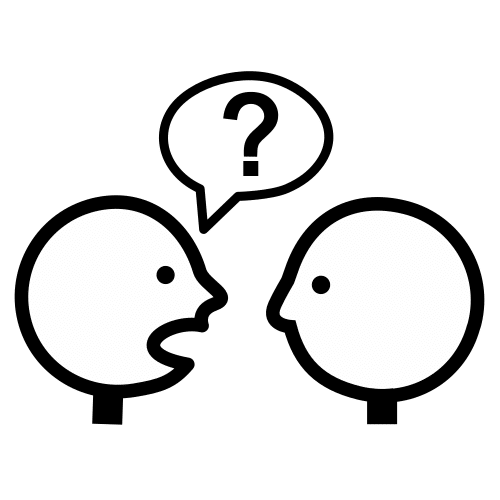
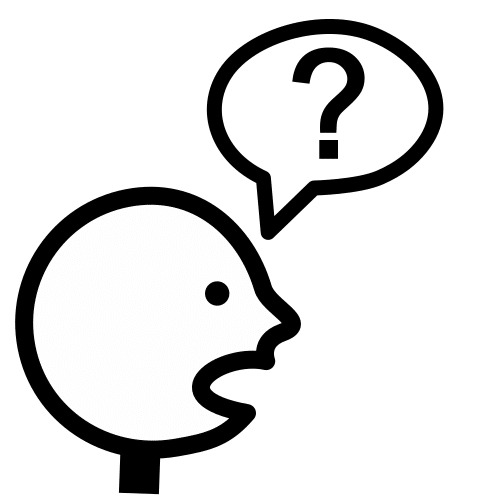
Mandarin: more words

Changed region(s): [[0.03, 0.03, 0.99, 0.99], [0.63, 0.54, 0.66, 0.6]]

diff --git a/m/mandarin/data.js b/m/mandarin/data.js
@@ -196,6 +196,7 @@ const data = {
 			{ word: "上班", pinyin: "Shàngbān", imageURL: "img/gotowork.png", english: "Go to work" },
 			{ word: "下班", pinyin: "Xiàbān", imageURL: "img/finishwork.png", english: "Finish work" },
       { word: "上下班", pinyin: "Shàng-xiàbān", image: "🏢🚙🚗🏠", english: "Rush hour (to and from work)", immersiveChineseLevel: "49", immersiveChineseVocabId: 725 },
+      { word: "工资", pinyin: "Gōngzī", imageURL: "img/salary.png", english: "Salary", immersiveChineseLevel: "78", immersiveChineseVocabId: 382 },
       { word: "上课", pinyin: "Shàngkè", imageURL: "img/class.png", english: "Attend class" },
       { word: "上学", pinyin: "Shàngxué", image: "NONE", english: "Go to school", immersiveChineseLevel: "28", immersiveChineseVocabId: 142 },
       { word: "下课", pinyin: "Xiàkè", image: "NONE", english: "Finish class", immersiveChineseLevel: "28", immersiveChineseVocabId: 567 },
@@ -482,6 +483,7 @@ const data = {
       { word: "难吃", pinyin: "Nánchī", image: "NONE", english: "Bad tasting", immersiveChineseLevel: "20", immersiveChineseVocabId: 558 },
       { word: "好听", pinyin: "Hǎotīng", image: "NONE", english: "Good to listen to, sounds nice", immersiveChineseLevel: "28", immersiveChineseVocabId: 139 },
       { word: "来自", pinyin: "Láizì", image: "NONE", english: "Come from", immersiveChineseLevel: "61", immersiveChineseVocabId: 289 },
+      { word: "外国", pinyin: "Wàiguó", image: "NONE", english: "Foreign", immersiveChineseLevel: "73", immersiveChineseVocabId: 346 },
     ]
   },
   locationDirection: {
@@ -503,6 +505,7 @@ const data = {
       { word: "离很远", pinyin: "Lí hěn yuǎn", imageURL: "img/far.png", english: "Far from" },
       { word: "近", pinyin: "Jìn", imageURL: "img/near.png", english: "Near" },
       { word: "外面", pinyin: "Wàimiàn", imageURL: "img/outside.png", english: "Outside" },
+      { word: "里面", pinyin: "Lǐmiàn", imageURL: "img/inside.png", english: "Inside", immersiveChineseLevel: "72", immersiveChineseVocabId: 344 },
       { word: "左拐", pinyin: "Zuó guǎi", imageURL: "img/turnleft.png", english: "Turn left" },
       { word: "往前", pinyin: "Wǎng qián", image: "NONE", english: "Move forward" },
     ],
@@ -517,6 +520,10 @@ const data = {
       { word: "学生", pinyin: "Xuéshēng", image: "👩🎓", english: "Student" },
       { word: "女人", pinyin: "Nǚrén", image: "👩", english: "Woman" },
       { word: "女士", pinyin: "Nǚshì", image: "💁♀", english: "Lady" },
+      { word: "男的", pinyin: "Nán de", image: "NONE", english: "Male; a man", immersiveChineseLevel: "77", immersiveChineseVocabId: 373 },
+      { word: "女的", pinyin: "Nǚ de", image: "NONE", english: "Female; a woman", immersiveChineseLevel: "77", immersiveChineseVocabId: 374 },
+      { word: "男", pinyin: "Nán", image: "♂", english: "Male", immersiveChineseLevel: "77", immersiveChineseVocabId: 478 },
+      { word: "女", pinyin: "Nǚ", image: "♀", english: "Female", immersiveChineseLevel: "77", immersiveChineseVocabId: 549 },
       { word: "人", pinyin: "Rén", image: "👤", english: "Person" },
       { word: "邻居", pinyin: "Línjū", imageURL: "img/neighbor.png", english: "Neighbor" },
       { word: "宝宝", pinyin: "Bǎobao", image: "🚼", english: "Baby" },
@@ -535,6 +542,8 @@ const data = {
       { word: "奶奶", pinyin: "Nǎinai", image: "NONE", english: "Grandmother (father’s side)" },
       { word: "保姆", pinyin: "Bǎomǔ", image: "🧑🍼", english: "Nanny" },
       { word: "顾客", pinyin: "Gùkè", imageURL: "img/customer.png", english: "Customer", immersiveChineseLevel: "67", immersiveChineseVocabId: 322 },
+      { word: "外国人", pinyin: "Wàiguórén", image: "NONE", english: "Foreigner", immersiveChineseLevel: "73", immersiveChineseVocabId: 345 },
+      { word: "老外", pinyin: "Lǎowài", image: "NONE", english: "Foreigner (colloquial)", immersiveChineseLevel: "73", immersiveChineseVocabId: 347 },
       { word: "医生", pinyin: "Yīshēng", image: "👨⚕", english: "Doctor" },
       { word: "小学生", pinyin: "Xiǎoxuéshēng", image: "NONE", english: "Primary school student", immersiveChineseLevel: "26", immersiveChineseVocabId: 129 },
       { word: "高一", pinyin: "Gāoyī", imageURL: "img/freshman.png", english: "Freshman" },
@@ -544,6 +553,12 @@ const data = {
       { word: "公主", pinyin: "Gōngzhǔ", imageURL: "img/princess.png", english: "Princess" },
       { word: "同事", pinyin: "Tóngshì", image: "👩💼👨💼", english: "Colleague / Coworker" },
       { word: "同学", pinyin: "Tóngxué", image: "👩🎓👨🎓", english: "Classmate" },
+      { word: "男朋友", pinyin: "Nánpéngyou", imageURL: "img/boyfriend.png", english: "Boyfriend", immersiveChineseLevel: "77", immersiveChineseVocabId: 375 },
+      { word: "女朋友", pinyin: "Nǚpéngyou", imageURL: "img/girlfriend.png", english: "Girlfriend", immersiveChineseLevel: "77", immersiveChineseVocabId: 376 },
+      { word: "男人", pinyin: "Nánrén", imageURL: "img/man.png", english: "Man", immersiveChineseLevel: "77", immersiveChineseVocabId: 377 },
+      { word: "男生", pinyin: "Nánshēng", imageURL: "img/malestudent.png", english: "Male student, boy, guy", immersiveChineseLevel: "77", immersiveChineseVocabId: 479 },
+      { word: "女生", pinyin: "Nǚshēng", imageURL: "img/femalestudent.png", english: "Female student, girl", immersiveChineseLevel: "77", immersiveChineseVocabId: 480 },
+      { word: "年轻人", pinyin: "Niánqīngrén", image: "[👱]🧓", english: "Young person", immersiveChineseLevel: "78", immersiveChineseVocabId: 381 },
       { word: "名字", pinyin: "Míngzi", imageURL: "img/name.png", english: "Name" },
       { word: "鬼", pinyin: "Guǐ", image: "👻", english: "Ghost" },
     ]
@@ -594,6 +609,8 @@ const data = {
       { word: "电梯", pinyin: "Diàntī", image: "🛗", english: "Elevator" },
       { word: "扶梯", pinyin: "Fútī", imageURL: "img/escalator.png", english: "Escalator" },
       { word: "酒店", pinyin: "Jiǔdiàn", image: "🏨", english: "Hotel" },
+      { word: "楼上", pinyin: "Lóu shàng", imageURL: "img/goupstairs.png", english: "Upstairs", immersiveChineseLevel: "76", immersiveChineseVocabId: 367 },
+      { word: "楼下", pinyin: "Lóu xià", imageURL: "img/downstairs.png", english: "Downstairs", immersiveChineseLevel: "76", immersiveChineseVocabId: 368 },
       { word: "五楼", pinyin: "Wǔ lóu", imageURL: "img/fifthfloor.png", english: "Fifth floor" },
       { word: "出租车", pinyin: "Chūzūchē", image: "🚕", english: "Taxi" },
       { word: "行李", pinyin: "Xíngli", image: "🧳", english: "Luggage" },
@@ -618,6 +635,7 @@ const data = {
       { word: "农村", pinyin: "Nóngcūn", imageURL: "img/village.png", english: "Village", immersiveChineseLevel: "57", immersiveChineseVocabId: 269 },
       { word: "省", pinyin: "Shěng", imageURL: "img/province.png", english: "Province", immersiveChineseLevel: "68", immersiveChineseVocabId: 330 },
       { word: "国家", pinyin: "Guójiā", imageURL: "img/country.png", english: "Country, nation", immersiveChineseLevel: "57", immersiveChineseVocabId: 270 },
+      { word: "国外", pinyin: "Guówài", image: "NONE", english: "Abroad, overseas", immersiveChineseLevel: "73", immersiveChineseVocabId: 348 },
       { word: "世界", pinyin: "Shìjiè", image: "🌍", english: "World" },
       { word: "地方", pinyin: "Dìfang", image: "📍🗺", english: "Place" },
       { word: "房子", pinyin: "Fángzi", image: "[🏠]🏘", english: "House", immersiveChineseLevel: "55", immersiveChineseVocabId: 257 },
@@ -690,6 +708,7 @@ const data = {
       { word: "说", pinyin: "Shuō", image: "🗣", english: "Speak" },
       { word: "告诉", pinyin: "Gàosu", imageURL: "img/tell.png", english: "Tell" },
       { word: "聊天", pinyin: "Liáotiān", imageURL: "img/chat.png", english: "Chat", immersiveChineseLevel: "48", immersiveChineseVocabId: 230 },
+      { word: "问", pinyin: "Wèn", imageURL: "img/ask.png", english: "Ask", immersiveChineseLevel: "75", immersiveChineseVocabId: 360 },
       { word: "写", pinyin: "Xiě", image: "✍", english: "Write" },
       { word: "喝酒", pinyin: "Hējiǔ", image: "😗🥃", english: "Drink alcohol", immersiveChineseLevel: "32", immersiveChineseVocabId: 570 },
       { word: "玩", pinyin: "Wán", imageURL: "img/play.png", english: "Play" },
@@ -721,6 +740,14 @@ const data = {
       { word: "去", pinyin: "Qù", imageURL: "img/go.png", english: "To go" },
       { word: "回来", pinyin: "Huílai", image: "NONE", english: "Come back, return", immersiveChineseLevel: "30", immersiveChineseVocabId: 149 },
       { word: "回去", pinyin: "Huíqu", image: "NONE", english: "Go back, return", immersiveChineseLevel: "30", immersiveChineseVocabId: 150 },
+      { word: "上去", pinyin: "Shàngqù", imageURL: "img/goup.png", english: "Go up", immersiveChineseLevel: "76", immersiveChineseVocabId: 369 },
+      { word: "上来", pinyin: "Shànglái", image: "NONE", english: "Come up", immersiveChineseLevel: "76", immersiveChineseVocabId: 370 },
+      { word: "下来", pinyin: "Xiàlái", imageURL: "img/comedown.png", english: "Come down", immersiveChineseLevel: "76", immersiveChineseVocabId: 372 },
+      { word: "进", pinyin: "Jìn", imageURL: "img/enter.png", english: "Enter", immersiveChineseLevel: "73", immersiveChineseVocabId: 350 },
+      { word: "进去", pinyin: "Jìnqù", image: "NONE", english: "Go in", immersiveChineseLevel: "73", immersiveChineseVocabId: 351 },
+      { word: "进来", pinyin: "Jìnlái", image: "NONE", english: "Come in", immersiveChineseLevel: "73", immersiveChineseVocabId: 352 },
+      { word: "出去", pinyin: "Chūqù", image: "NONE", english: "Go out", immersiveChineseLevel: "74", immersiveChineseVocabId: 354 },
+      { word: "出来", pinyin: "Chūlái", image: "NONE", english: "Come out", immersiveChineseLevel: "74", immersiveChineseVocabId: 355 },
       { word: "待", pinyin: "Dāi", image: "NONE", english: "Stay" },
       { word: "想", pinyin: "Xiǎng", image: "🤔", english: "To think, want" },
       { word: "想要", pinyin: "Xiǎngyào", image: "NONE", english: "Want, would like, wish to have", immersiveChineseLevel: "37", immersiveChineseVocabId: 187 },
@@ -762,6 +789,8 @@ const data = {
       { word: "做饭", pinyin: "Zuòfàn", image: "NONE", english: "Cook, prepare food", immersiveChineseLevel: "19", immersiveChineseVocabId: 96 },
       { word: "记得", pinyin: "Jìde", imageURL: "img/remember.png", english: "Remember", immersiveChineseLevel: "58", immersiveChineseVocabId: 276 },
       { word: "送", pinyin: "Sòng", imageURL: "img/givegift.png", english: "Give (as a gift), deliver", immersiveChineseLevel: "69", immersiveChineseVocabId: 333 },
+      { word: "结婚", pinyin: "Jiéhūn", image: "👰♀🤵♂💒", english: "Get married", immersiveChineseLevel: "78", immersiveChineseVocabId: 379 },
+      { word: "准备", pinyin: "Zhǔnbèi", image: "NONE", english: "Prepare", immersiveChineseLevel: "79", immersiveChineseVocabId: 383 },
     ]
   },
   nature: {
@@ -883,6 +912,7 @@ const data = {
       { word: "你多大?", pinyin: "Nǐ duō dà?", image: "NONE", english: "How old are you?", immersiveChineseLevel: "23", immersiveChineseVocabId: 114 },
       { word: "我三岁", pinyin: "Wǒ sān suì", image: "NONE", english: "I am three years old" },
       { word: "电影", pinyin: "Diànyǐng", imageURL: "img/movie.png", english: "Movie" },
+      { word: "回国", pinyin: "Huíguó", image: "NONE", english: "Return to home country", immersiveChineseLevel: "73", immersiveChineseVocabId: 477 },
       { word: "我们回家", pinyin: "Wǒmen huí jiā", image: "NONE", english: "We go home" },
       { word: "东西", pinyin: "Dōngxi", imageURL: "img/thing.png", english: "Thing" },
       { word: "事情", pinyin: "Shìqing", image: "NONE", english: "Thing (non-physical), situation, business to attend to", immersiveChineseLevel: "64", immersiveChineseVocabId: 307 },
@@ -977,6 +1007,7 @@ const data = {
       { word: "他在画画", pinyin: "Tā zài huàhua", imageURL: "img/heisdrawing.png", english: "He is drawing / painting" },
       { word: "看起来好吃", pinyin: "Kàn qǐlái hǎochī", imageURL: "img/looksdelicious.png", english: "Looks delicious" },
       { word: "觉得", pinyin: "Juéde", image: "NONE", english: "To have an opinion about" },
+      { word: "感觉", pinyin: "Gǎnjué", image: "NONE", english: "Feel, feel that, think that; feeling", immersiveChineseLevel: "72", immersiveChineseVocabId: 575 },
       { word: "你觉得汉语难吗？", pinyin: "Nǐ juéde Hànyǔ nán ma?", image: "NONE", english: "Do you think Chinese is hard?" },
       { word: "我的鼻子在流鼻涕", pinyin: "Wǒ de bízi zài liú bítì", image: "NONE", english: "My nose is dripping" },
       { word: "最后一口", pinyin: "Zuìhòu yì kǒu", image: "NONE", english: "Last bite" },
@@ -993,6 +1024,7 @@ const data = {
       { word: "我两点才走", pinyin: "Wǒ liǎng diǎn cái zǒu", image: "NONE", english: "I won’t leave until 2 o’clock" },
       { word: "你有几个苹果？", pinyin: "Nǐ yǒu jǐ gè píngguǒ?", image: "NONE", english: "How many apples do you have?" },
       { word: "语言", pinyin: "Yǔyán", imageURL: "img/language.png", english: "Language" },
+      { word: "外语", pinyin: "Wàiyǔ", image: "NONE", english: "Foreign language", immersiveChineseLevel: "73", immersiveChineseVocabId: 349 },
       { word: "普通话", pinyin: "Pǔtōnghuà", image: "NONE", english: "Modern Standard Mandarin, Putonghua", immersiveChineseLevel: "59", immersiveChineseVocabId: 284 },
       { word: "广东话", pinyin: "Guǎngdōnghuà", image: "NONE", english: "Cantonese", immersiveChineseLevel: "59", immersiveChineseVocabId: 285 },
       { word: "法语", pinyin: "Fǎyǔ", image: "🗣🇫🇷", english: "French language", immersiveChineseLevel: "10", immersiveChineseVocabId: 59 },
@@ -1062,6 +1094,14 @@ const data = {
       { word: "外卖送得太慢，我很饿", pinyin: "Wàimài sòng de tài màn, wǒ hěn è", image: "NONE", english: "The delivery is being too slow, I'm very hungry", immersiveChineseLevel: "69", immersiveChineseVocabId: 333 },
       { word: "等等", pinyin: "Děngděng", image: "NONE", english: "Et cetera, and so on", immersiveChineseLevel: "69", immersiveChineseVocabId: 335 },
       { word: "而且", pinyin: "Érqiě", image: "NONE", english: "Furthermore, in addition, also", immersiveChineseLevel: "71", immersiveChineseVocabId: 340 },
+      { word: "越来越", pinyin: "Yuè lái yuè", image: "NONE", english: "More and more", immersiveChineseLevel: "72", immersiveChineseVocabId: 341 },
+      { word: "你的汉语越来越好", pinyin: "Nǐ de Hànyǔ yuè lái yuè hǎo", image: "NONE", english: "Your Chinese is getting better and better", immersiveChineseLevel: "72", immersiveChineseVocabId: 341 },
+      { word: "越…越…", pinyin: "Yuè…yuè…", image: "NONE", english: "The more x the more y", immersiveChineseLevel: "72", immersiveChineseVocabId: 342 },
+      { word: "这首歌我越听越不喜欢", pinyin: "Zhè shǒu gē wǒ yuè tīng yuè bù xǐhuān", image: "NONE", english: "The more I listen to this song the more I don’t like it", immersiveChineseLevel: "72", immersiveChineseVocabId: 342 },
+      { word: "你去过哪些外国城市？", pinyin: "Nǐ qùguò nǎxiē wàiguó chéngshì?", image: "NONE", english: "Which foreign cities have you been to?", immersiveChineseLevel: "73", immersiveChineseVocabId: 346 },
+      { word: "我没进过她家", pinyin: "Wǒ méi jìnguò tā jiā", image: "NONE", english: "I have never been in her house", immersiveChineseLevel: "73", immersiveChineseVocabId: 350 },
+      { word: "我想请你吃饭", pinyin: "Wǒ xiǎng qǐng nǐ chīfàn", image: "NONE", english: "I want to treat you to a meal", immersiveChineseLevel: "75", immersiveChineseVocabId: 361 },
+      { word: "请问", pinyin: "Qǐngwèn", image: "NONE", english: "Excuse me (before a question)", immersiveChineseLevel: "75", immersiveChineseVocabId: 361 },
     ]
   },
   pronouns: {

diff --git a/m/mandarin/sw.js b/m/mandarin/sw.js
@@ -1,4 +1,4 @@
-const cacheName = 'mandarin-d14516267764bd8558ed5eaa85a4b6ea';
+const cacheName = 'mandarin-3af87a0eeac1a2203e31b1f5112441a8';
 const appShellFiles = [
   './cards/card-style.css',
   './cards/cards-4000.png',
@@ -31,6 +31,7 @@ const appShellFiles = [
   './img/annoy.png',
   './img/areyouhungry.png',
   './img/argue.png',
+  './img/ask.png',
   './img/awake.png',
   './img/badsmell.png',
   './img/ballcourt.png',
@@ -55,6 +56,7 @@ const appShellFiles = [
   './img/bored.png',
   './img/bottledwater.png',
   './img/bowl.png',
+  './img/boyfriend.png',
   './img/bridge.png',
   './img/bring.png',
   './img/bringbackpack.png',
@@ -80,6 +82,7 @@ const appShellFiles = [
   './img/cold.png',
   './img/color.png',
   './img/come.png',
+  './img/comedown.png',
   './img/comfortable.png',
   './img/country.png',
   './img/creek.png',
@@ -101,6 +104,7 @@ const appShellFiles = [
   './img/dirtylaundry.png',
   './img/do.png',
   './img/donttouch.png',
+  './img/downstairs.png',
   './img/dragonfly.png',
   './img/drain.png',
   './img/drink.png',
@@ -114,6 +118,7 @@ const appShellFiles = [
   './img/eatbreakfast.png',
   './img/eatdinner.png',
   './img/eatlunch.png',
+  './img/enter.png',
   './img/escalator.png',
   './img/everyone.png',
   './img/excited.png',
@@ -123,6 +128,7 @@ const appShellFiles = [
   './img/far.png',
   './img/fart.png',
   './img/feed.png',
+  './img/femalestudent.png',
   './img/few.png',
   './img/fifthfloor.png',
   './img/fingers.png',
@@ -139,6 +145,7 @@ const appShellFiles = [
   './img/fruit.png',
   './img/fun.png',
   './img/garage.png',
+  './img/girlfriend.png',
   './img/givebook.png',
   './img/givegift.png',
   './img/glass.png',
@@ -146,6 +153,8 @@ const appShellFiles = [
   './img/go.png',
   './img/goodsmell.png',
   './img/gotowork.png',
+  './img/goup.png',
+  './img/goupstairs.png',
   './img/grab.png',
   './img/grabbook.png',
   './img/grass.png',
@@ -180,6 +189,7 @@ const appShellFiles = [
   './img/in.png',
   './img/inexpensive.png',
   './img/infront.png',
+  './img/inside.png',
   './img/interest.png',
   './img/iwantmore.png',
   './img/joke.png',
@@ -207,7 +217,9 @@ const appShellFiles = [
   './img/look.png',
   './img/looksdelicious.png',
   './img/low.png',
+  './img/malestudent.png',
   './img/mall.png',
+  './img/man.png',
   './img/many.png',
   './img/mean.png',
   './img/meeting.png',
@@ -273,6 +285,7 @@ const appShellFiles = [
   './img/restaurant.png',
   './img/river.png',
   './img/safe.png',
+  './img/salary.png',
   './img/salty.png',
   './img/same.png',
   './img/sandbox.png',

diff --git a/m/mandarin/cards/pwa.js b/m/mandarin/cards/pwa.js
@@ -110,7 +110,7 @@ function createStartupImage(imgURL, bgColor) {
 }
 
 if ('serviceWorker' in navigator) {
-  navigator.serviceWorker.register('../sw.js?v=d14516267764bd8558ed5eaa85a4b6ea')
+  navigator.serviceWorker.register('../sw.js?v=3af87a0eeac1a2203e31b1f5112441a8')
   .then((reg) => {
     // registration worked
   }).catch((error) => {

diff --git a/m/mandarin/pwa.js b/m/mandarin/pwa.js
@@ -110,7 +110,7 @@ function createStartupImage(imgURL, bgColor) {
 }
 
 if ('serviceWorker' in navigator) {
-  navigator.serviceWorker.register('sw.js?v=d14516267764bd8558ed5eaa85a4b6ea')
+  navigator.serviceWorker.register('sw.js?v=3af87a0eeac1a2203e31b1f5112441a8')
   .then((reg) => {
     // registration worked
   }).catch((error) => {
